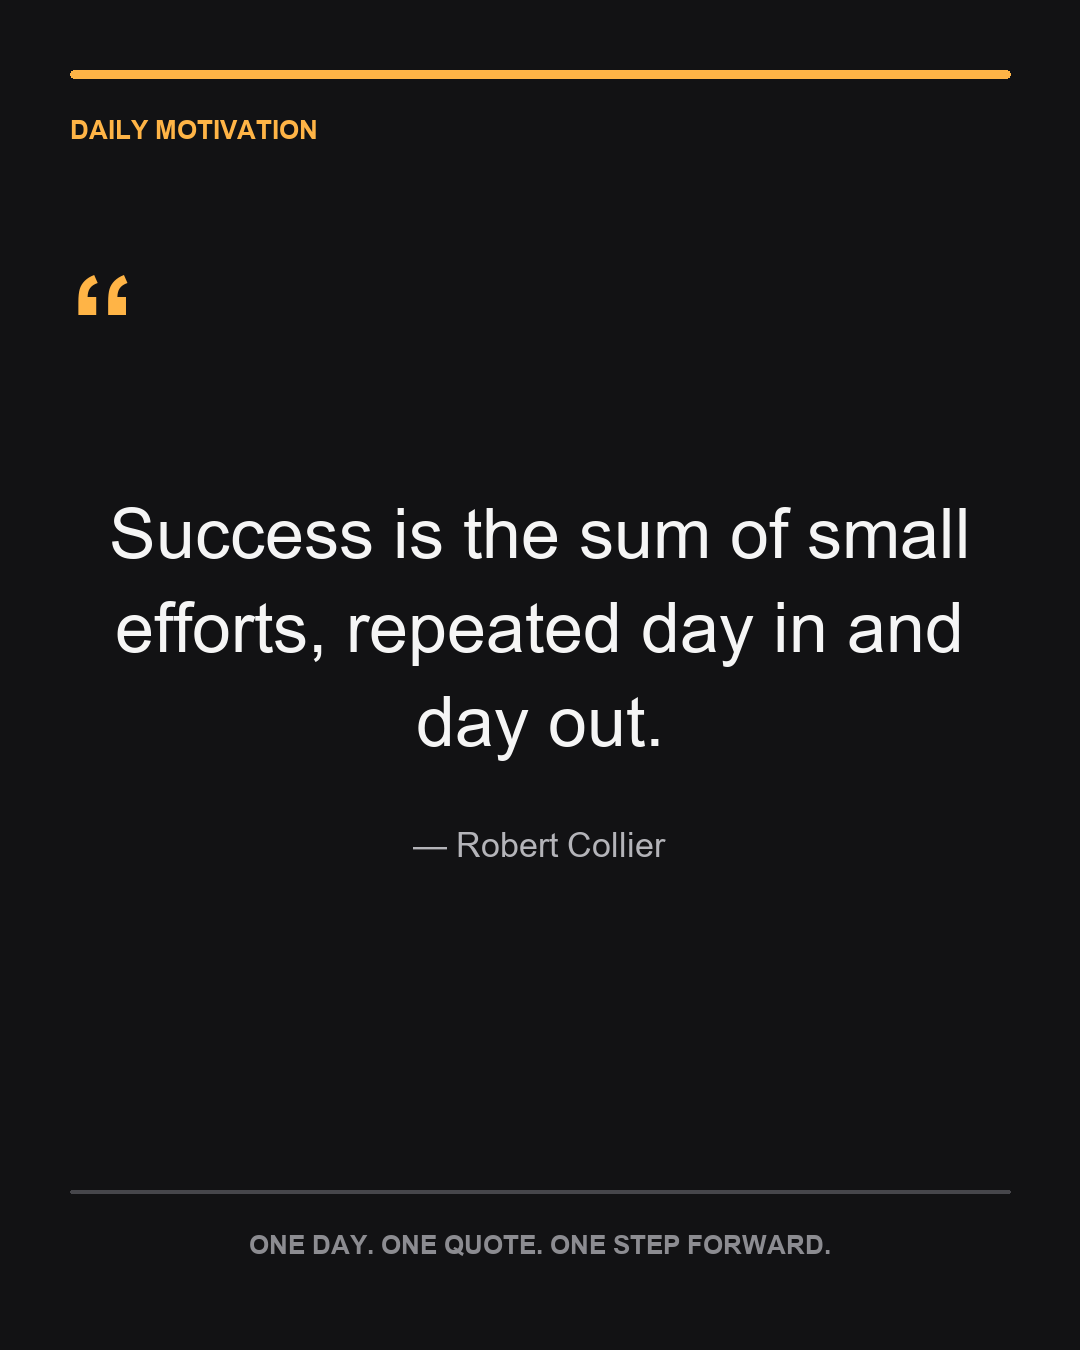
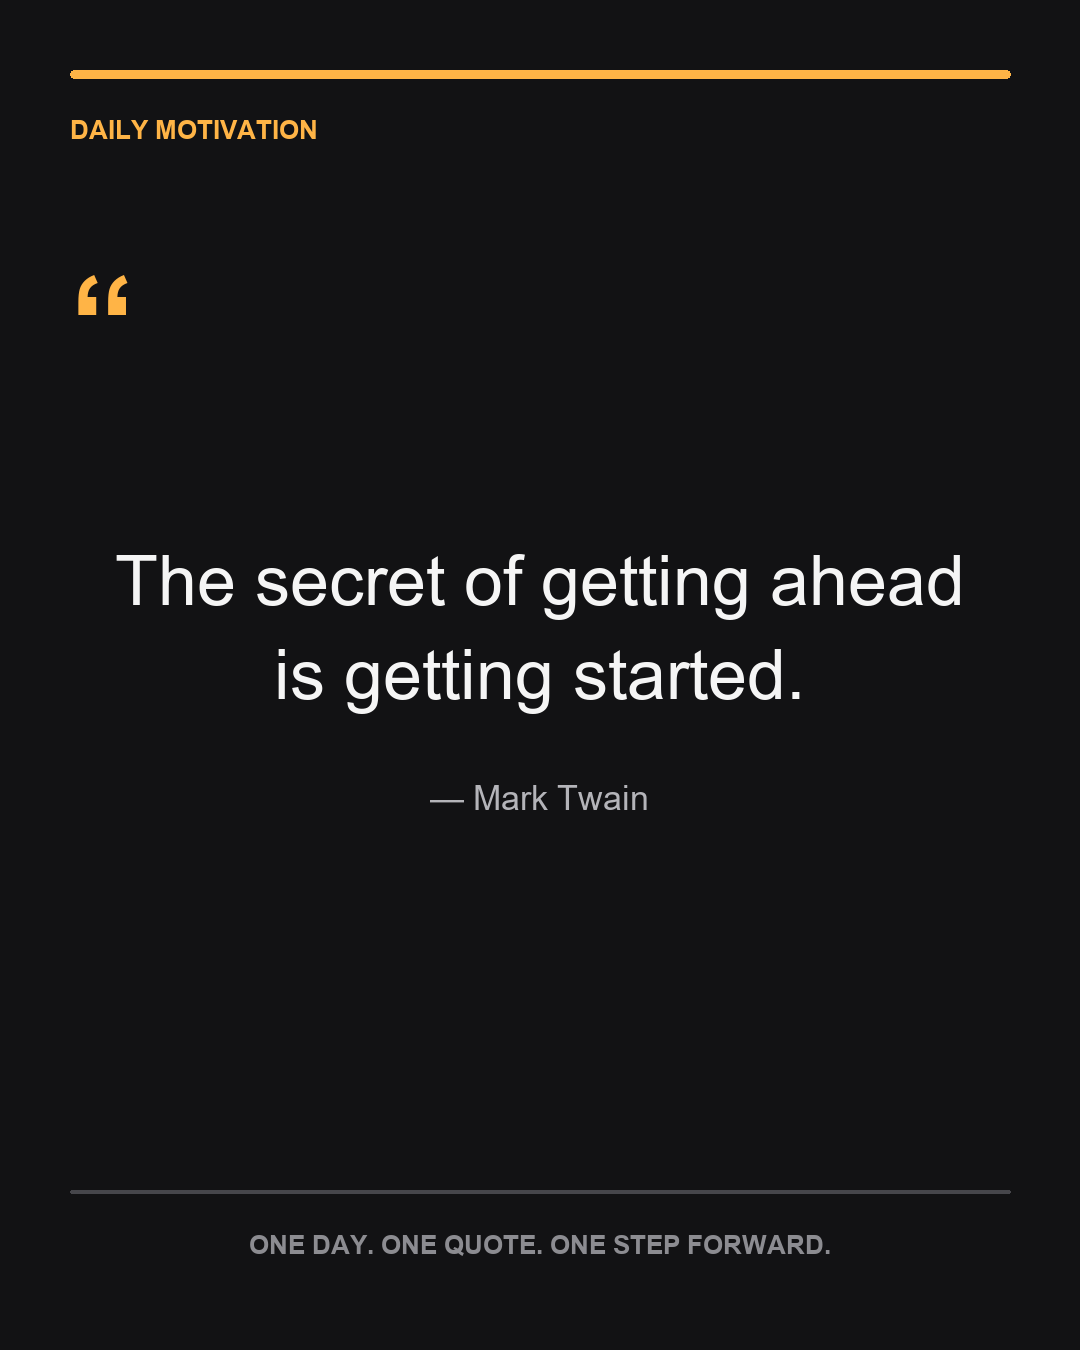
Added proper poster gen to keep track of it

Changed region(s): [[0.0917, 0.3733, 0.9167, 0.6533]]

diff --git a/app/poster_generator.py b/app/poster_generator.py
@@ -1,6 +1,7 @@
 from PIL import Image, ImageDraw, ImageFont
 from pathlib import Path
 import textwrap
+from datetime import datetime
 
 
 BASE_DIR = Path(__file__).resolve().parent.parent
@@ -237,10 +238,12 @@ def create_poster(quote):
         exist_ok=True
     )
 
-    output_path = (
-        OUTPUT_DIR / "motivation.png"
-    )
+    today = datetime.now().strftime("%Y-%m-%d")
 
+    output_path = (
+        OUTPUT_DIR / f"motivation_{today}.png"
+    )
+ 
     image.save(
         output_path,
         quality=95
